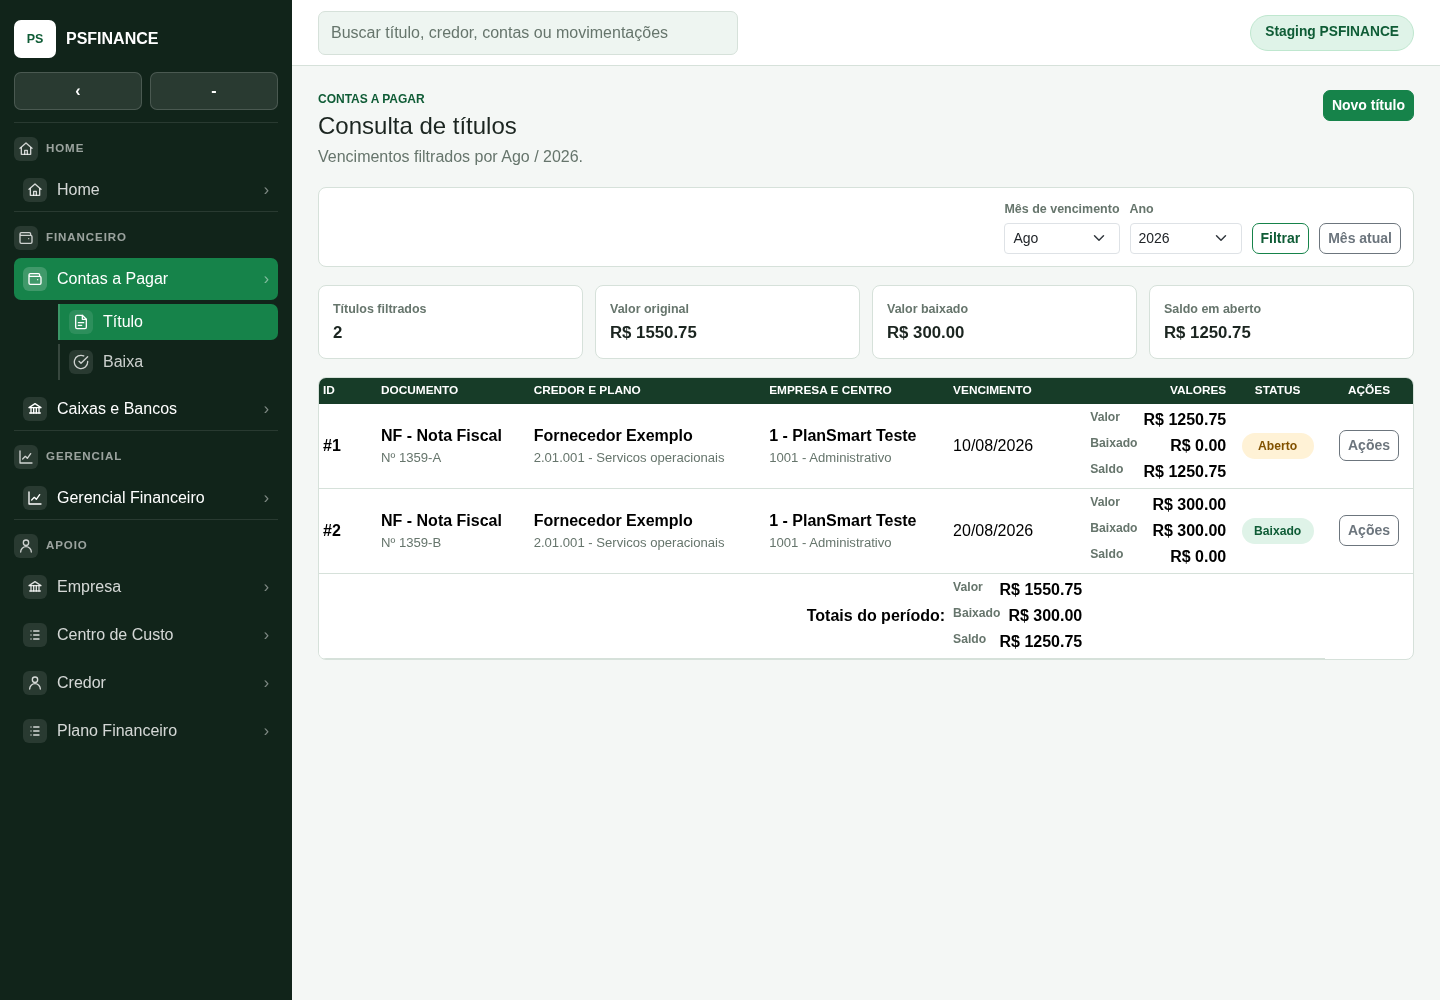
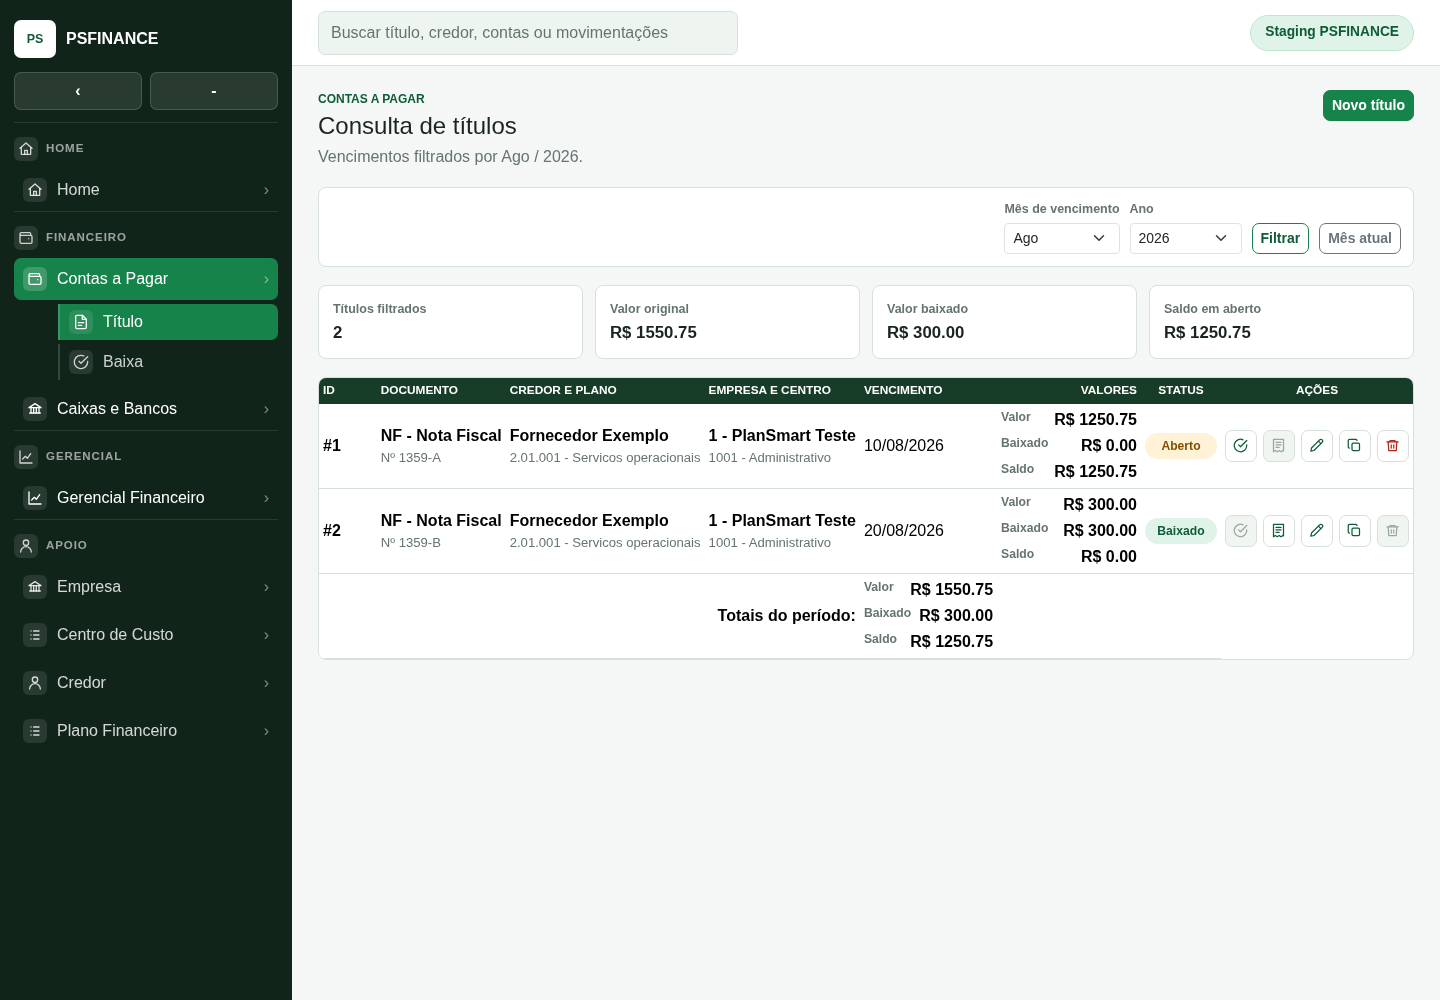
fix: usar icones nas acoes de titulos

diff --git a/templates/titulos_list.html b/templates/titulos_list.html
@@ -122,7 +122,7 @@
     }
 
     .titles-col-actions {
-      width: 88px;
+      width: 190px;
     }
 
     .titles-text-main {
@@ -178,6 +178,64 @@
       color: var(--ps-muted);
       font-size: 0.76rem;
       font-weight: 700;
+    }
+
+    .titles-actions {
+      display: inline-flex;
+      gap: 6px;
+      justify-content: center;
+      white-space: nowrap;
+    }
+
+    .titles-action-form {
+      display: inline-flex;
+      margin: 0;
+    }
+
+    .titles-action {
+      align-items: center;
+      background: #ffffff;
+      border: 1px solid var(--ps-border);
+      border-radius: 7px;
+      color: var(--ps-green-dark);
+      display: inline-flex;
+      height: 32px;
+      justify-content: center;
+      padding: 0;
+      text-decoration: none;
+      width: 32px;
+    }
+
+    .titles-action:hover,
+    .titles-action:focus-visible {
+      background: var(--ps-green-soft);
+      border-color: #9fd8b8;
+      color: var(--ps-green-dark);
+      outline: 0;
+    }
+
+    .titles-action-danger {
+      color: #b42318;
+    }
+
+    .titles-action-danger:hover,
+    .titles-action-danger:focus-visible {
+      background: #ffe8e5;
+      border-color: #ffc8c1;
+      color: #8f1b12;
+    }
+
+    .titles-action[disabled],
+    .titles-action-disabled {
+      background: #f1f5f2;
+      color: #9aa79f;
+      cursor: not-allowed;
+      pointer-events: none;
+    }
+
+    .titles-action .icon {
+      height: 15px;
+      width: 15px;
     }
 
     .titles-empty {
@@ -354,62 +412,71 @@
                   </td>
 
                   <td class="text-center">
-                    <div class="dropdown">
-                      <button class="btn btn-sm btn-outline-secondary dropdown-toggle" type="button" data-bs-toggle="dropdown" aria-expanded="false">
-                        Ações
-                      </button>
-                      <ul class="dropdown-menu dropdown-menu-end">
-                        <li>
-                          <a
-                            href="{{ url_for('financeiro.baixar_titulo', id_titulo=t.id) }}"
-                            class="dropdown-item {% if aberto <= 0 %}disabled{% endif %}"
-                          >
-                            Baixar
-                          </a>
-                        </li>
-                        {% if (t.baixado or 0) > 0 %}
-                          <li>
-                            <a
-                              href="{{ url_for('financeiro.listar_baixas_titulo', id_titulo=t.id) }}"
-                              class="dropdown-item"
-                            >
-                              Baixas
-                            </a>
-                          </li>
-                        {% endif %}
-                        <li>
-                          <a
-                            href="{{ url_for('financeiro.editar_titulo', id_titulo=t.id) }}"
-                            class="dropdown-item"
-                          >
-                            Editar
-                          </a>
-                        </li>
-                        <li>
-                          <a
-                            href="{{ url_for('financeiro.copiar_titulo', id_titulo=t.id) }}"
-                            class="dropdown-item"
-                          >
-                            Copiar
-                          </a>
-                        </li>
-                        <li><hr class="dropdown-divider"></li>
-                        <li>
-                          <form
-                            method="post"
-                            action="{{ url_for('financeiro.excluir_titulo', id_titulo=t.id) }}"
-                            onsubmit="return confirm('Confirma exclusão do título {{ t.doc_label }} {{ t.nr_documento }}?');"
-                          >
-                            <button
-                              type="submit"
-                              class="dropdown-item text-danger"
-                              {% if (t.baixado or 0) > 0 %}disabled title="Título possui baixa e não pode ser excluído"{% endif %}
-                            >
-                              Excluir
-                            </button>
-                          </form>
-                        </li>
-                      </ul>
+                    <div class="titles-actions" aria-label="Ações do título {{ t.id }}">
+                      {% if aberto > 0 %}
+                        <a
+                          href="{{ url_for('financeiro.baixar_titulo', id_titulo=t.id) }}"
+                          class="titles-action"
+                          title="Baixar título"
+                          aria-label="Baixar título {{ t.id }}"
+                        >
+                          <svg class="icon"><use href="#icon-check-circle"></use></svg>
+                        </a>
+                      {% else %}
+                        <span class="titles-action titles-action-disabled" title="Título já baixado" aria-label="Título já baixado">
+                          <svg class="icon"><use href="#icon-check-circle"></use></svg>
+                        </span>
+                      {% endif %}
+
+                      {% if (t.baixado or 0) > 0 %}
+                        <a
+                          href="{{ url_for('financeiro.listar_baixas_titulo', id_titulo=t.id) }}"
+                          class="titles-action"
+                          title="Consultar baixas"
+                          aria-label="Consultar baixas do título {{ t.id }}"
+                        >
+                          <svg class="icon"><use href="#icon-receipt"></use></svg>
+                        </a>
+                      {% else %}
+                        <span class="titles-action titles-action-disabled" title="Sem baixas registradas" aria-label="Sem baixas registradas">
+                          <svg class="icon"><use href="#icon-receipt"></use></svg>
+                        </span>
+                      {% endif %}
+
+                      <a
+                        href="{{ url_for('financeiro.editar_titulo', id_titulo=t.id) }}"
+                        class="titles-action"
+                        title="Editar título"
+                        aria-label="Editar título {{ t.id }}"
+                      >
+                        <svg class="icon"><use href="#icon-pencil"></use></svg>
+                      </a>
+
+                      <a
+                        href="{{ url_for('financeiro.copiar_titulo', id_titulo=t.id) }}"
+                        class="titles-action"
+                        title="Copiar título"
+                        aria-label="Copiar título {{ t.id }}"
+                      >
+                        <svg class="icon"><use href="#icon-copy"></use></svg>
+                      </a>
+
+                      <form
+                        method="post"
+                        action="{{ url_for('financeiro.excluir_titulo', id_titulo=t.id) }}"
+                        class="titles-action-form"
+                        onsubmit="return confirm('Confirma exclusão do título {{ t.doc_label }} {{ t.nr_documento }}?');"
+                      >
+                        <button
+                          type="submit"
+                          class="titles-action titles-action-danger"
+                          title="{% if (t.baixado or 0) > 0 %}Título possui baixa e não pode ser excluído{% else %}Excluir título{% endif %}"
+                          aria-label="Excluir título {{ t.id }}"
+                          {% if (t.baixado or 0) > 0 %}disabled{% endif %}
+                        >
+                          <svg class="icon"><use href="#icon-trash"></use></svg>
+                        </button>
+                      </form>
                     </div>
                   </td>
                 </tr>

diff --git a/templates/base.html b/templates/base.html
@@ -609,6 +609,21 @@
         <path d="m7 22-4-4 4-4"></path>
         <path d="M21 13v2a3 3 0 0 1-3 3H3"></path>
       </symbol>
+      <symbol id="icon-copy" viewBox="0 0 24 24">
+        <rect x="8" y="8" width="12" height="12" rx="2"></rect>
+        <path d="M4 16c-1.1 0-2-.9-2-2V4c0-1.1.9-2 2-2h10c1.1 0 2 .9 2 2"></path>
+      </symbol>
+      <symbol id="icon-pencil" viewBox="0 0 24 24">
+        <path d="M17 3a2.8 2.8 0 0 1 4 4L8 20l-5 1 1-5Z"></path>
+        <path d="m15 5 4 4"></path>
+      </symbol>
+      <symbol id="icon-trash" viewBox="0 0 24 24">
+        <path d="M3 6h18"></path>
+        <path d="M8 6V4h8v2"></path>
+        <path d="M19 6l-1 14H6L5 6"></path>
+        <path d="M10 11v5"></path>
+        <path d="M14 11v5"></path>
+      </symbol>
       <symbol id="icon-receipt" viewBox="0 0 24 24">
         <path d="M4 2v20l3-2 3 2 3-2 3 2 3-2 1 .67V2z"></path>
         <path d="M8 7h8"></path>

diff --git a/docs/PLA-1359-layout-titulos-pagar.md b/docs/PLA-1359-layout-titulos-pagar.md
@@ -47,7 +47,8 @@ ou scripts de banco.
 - Tabela passou a agrupar dados correlatos para reduzir largura operacional:
   documento e numero, credor e plano, empresa e centro, valores, status e acoes.
 - Status visual `Aberto`/`Baixado` foi adicionado com base no saldo em aberto.
-- Acoes por titulo foram agrupadas em menu para reduzir ruido horizontal.
+- Acoes por titulo foram convertidas em botoes compactos com icones, `title`
+  e `aria-label`, reduzindo ruido horizontal sem remover comandos.
 - Estado vazio passou a ter mensagem contextual ao periodo filtrado.
 
 ## Validacao local
@@ -80,7 +81,7 @@ Evidencias:
 
 Resultado observado:
 
-- desktop com filtros, resumo, tabela, status e acoes visiveis;
+- desktop com filtros, resumo, tabela, status e acoes por icone visiveis;
 - mobile com cabecalho, filtros e resumo empilhados sem sobreposicao;
 - tabela permanece dentro de `table-responsive` para telas estreitas.
 

diff --git a/docs/decisoes.md b/docs/decisoes.md
@@ -306,3 +306,6 @@ tabelas operacionais existentes, dados produtivos, variaveis de ambiente, VPS,
   filtros destacados, status visual e acoes agrupadas por titulo.
 - Limite: alteracao restrita a apresentacao. Nao autoriza mudanca em `main`,
   deploy produtivo, migration ou escrita em banco de producao.
+- Complemento: as acoes por titulo foram ajustadas para botoes compactos com
+  icones e atributos `title`/`aria-label`, atendendo ao pedido de reduzir
+  botoes textuais grandes na consulta.
